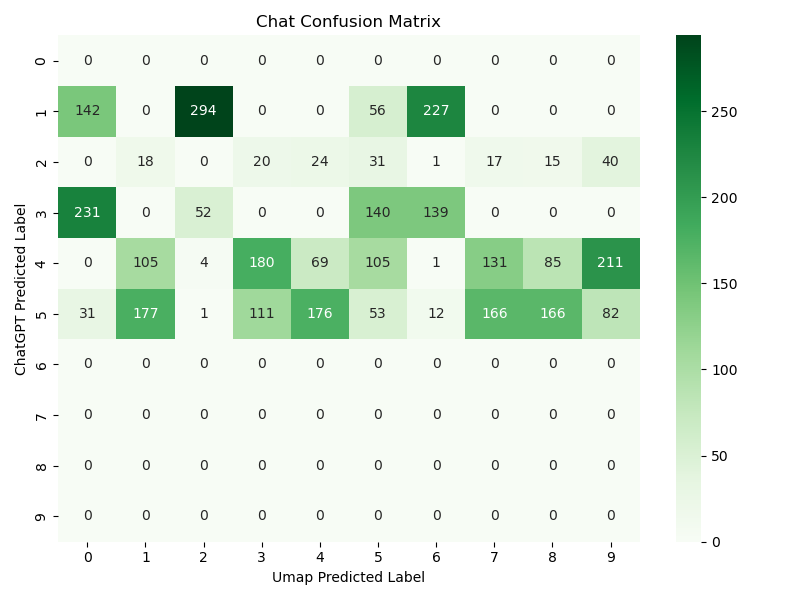
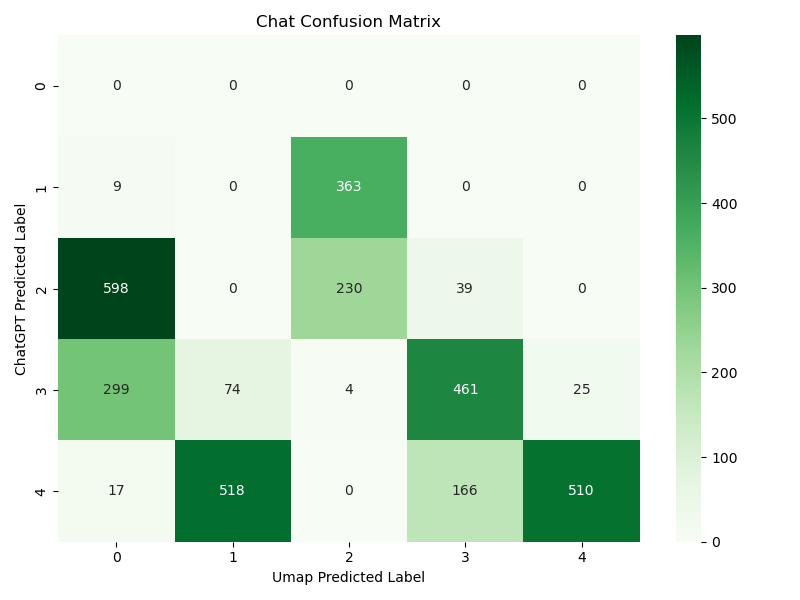
edits

diff --git a/umap/umap_clustering.py b/umap/umap_clustering.py
@@ -8,13 +8,14 @@ import seaborn as sns
 
 # Loading Data
 alltrails = pd.read_csv('../alltrails-data.csv')
-chat = pd.read_csv('../ChatGPT_scores.csv')
+chat = pd.read_csv('../chatgpt_new_difficulty_ratings.csv')
 print(chat.columns.tolist())
 
 # Encoding columns
 alltrails['city_encoded'], uniques = pd.factorize(alltrails['city_name'])
 alltrails['route_type_encoded'], uniques = pd.factorize(alltrails['route_type'])
 
+print(alltrails["area_name"].unique())
 # Reducing to data used for ML
 data = alltrails[["city_encoded", "popularity", "length", "elevation_gain"]]
 
@@ -32,7 +33,7 @@ labels = kmeans.fit_predict(embedding)
 
 alltrails_labels = np.array(alltrails["difficulty_rating"])
 pred_labels = np.array(labels)
-chatpred_labels = np.array(chat["estimated_strenuousness_score"])
+chatpred_labels = np.array(chat["difficulty_rating"])
 
 unique, counts = np.unique(alltrails_labels, return_counts=True)
 
